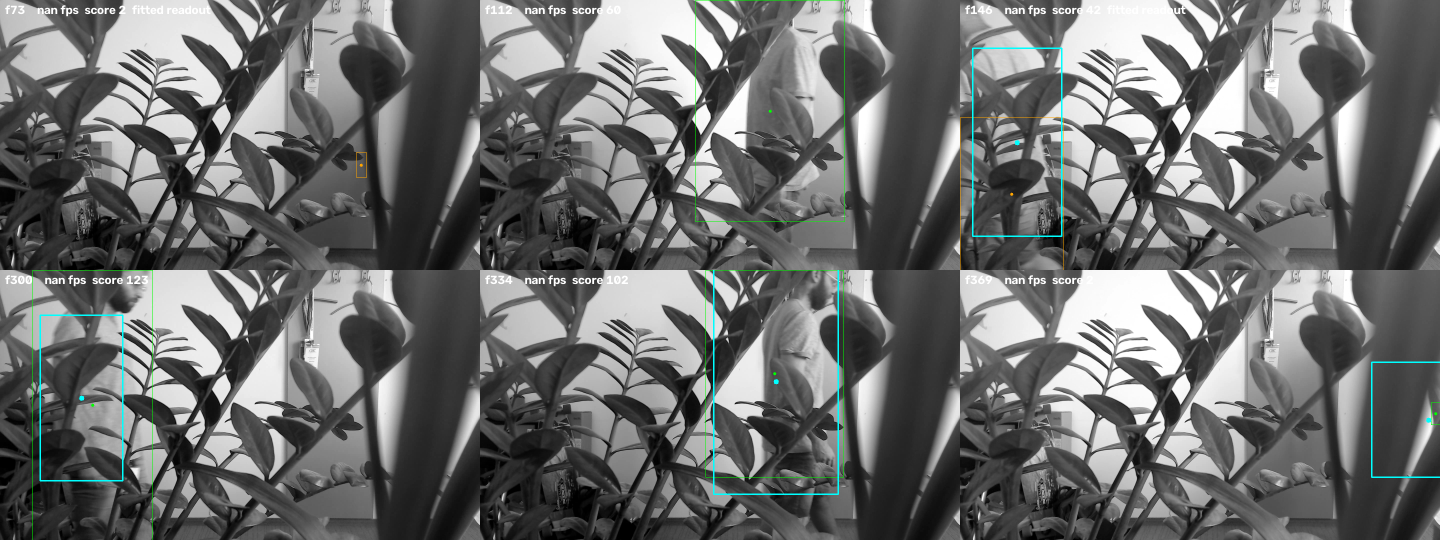
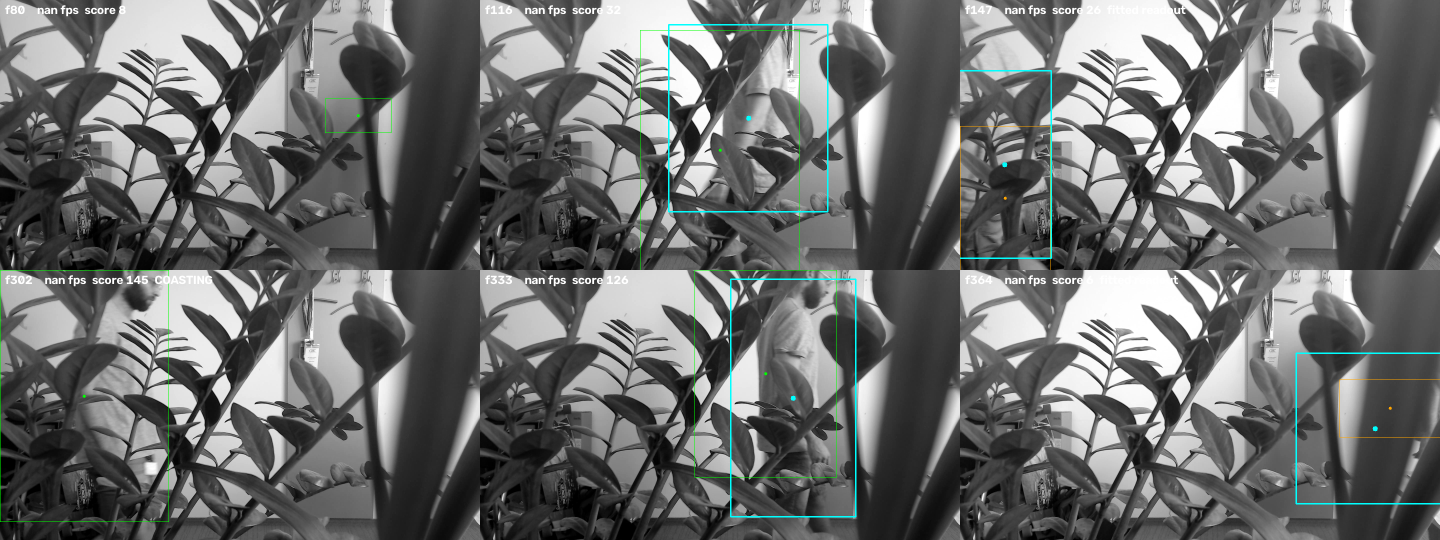
YOLO vs tracker split screen: the detector finds nobody, and its 44% is a static phantom
tracking/eval/yolo_vs_tracker.py renders YOLO and the tracker side by side on the same frame at
the same scale, and scores both against hand-labelled presence intervals. Weights come from what
is already on the machine - YOLO-26-CAM/models/yolo11n.pt via ultralytics 8.4.89 on CUDA - so no
download.

Run despite the repo's own "do not retry" note, deliberately: the three prior derivations were all
195px-or-smaller people in outdoor foliage, and these clips are an 840px well-lit indoor person at
full resolution, which is the regime where a COCO detector should be comfortable. Untested rather
than settled.

  clip          segment          frames   YOLO fires   tracker box
  walk_noisy1   person present      232         44%          90%
  walk_noisy1   person ABSENT       233         85%           1%
  ido_walk      person present      256          5%          74%
  ido_walk      person ABSENT       108          0%           3%
  walk_noisy2   person present      195          0%          79%
  walk_noisy2   person ABSENT       178          0%           2%

On walk_noisy1 YOLO is ANTI-CORRELATED with truth, firing more often when nobody is there. The
mechanism matters, because 44% recall would otherwise read as partial success: EVERY detection is
the same static false positive. Detection centre on person-absent frames is x=158, y=357 with
standard deviation 0.0, and the median centre moves 0px between present and absent while the person
[…]

diff --git a/tracking/eval/yolo_vs_tracker.py b/tracking/eval/yolo_vs_tracker.py
@@ -1,0 +1,142 @@
+"""Split screen: a COCO-trained YOLO person detector against the blob/Kalman tracker.
+
+    python -m tracking.eval.yolo_vs_tracker --clip walk_noisy1
+    python -m tracking.eval.yolo_vs_tracker --clip ido_walk --weights /path/to/yolo11n.pt
+
+Left panel is YOLO, right panel is the tracker, same frame and same scale, so the only difference
+is the method. Writes <clip>_yolo_vs_tracker.mp4 plus a montage, and prints recall and
+false-positive rate for BOTH methods against hand-labelled presence intervals.
+
+WHY THIS IS WORTH RUNNING AT ALL, given the repo already says not to. Three prior derivations
+found COCO detectors returning 0.000 confidence on this project's footage - the deleted
+gen_data/score_frames_yolo.py on NFO with yolov8n, then torchvision Faster R-CNN and YOLOv8n on
+NFO, KTH and every crop variant. But all of those were 195px-or-smaller people in outdoor foliage.
+These clips are a different regime: an 840px well-lit indoor person at full resolution, which is
+the one case where a COCO detector should be comfortable. So it was untested rather than settled.
+
+WEIGHTS come from whatever is already on the machine - no download. yolo11n.pt lives in the
+sibling YOLO-26-CAM project.
+
+READ recall AND false positives together. A detector that fires on most frames looks good on
+recall alone; the interesting question on this footage is whether it fires on the PERSON.
+"""
+import argparse
+import os
+
+import cv2
+import numpy as np
+
+from tracking.stream.stream import (Smoother, StreamPipeline, annotate, bootstrap_person_height,
+                                    frames_from_source)
+
+DEFAULT_WEIGHTS = '/home/akovi/PycharmProjects/YOLO-26-CAM/models/yolo11n.pt'
+PRESENT = {
+    'ido_walk':        [(31, 194), (278, 391)],
+    'ido_walk_frozen': [],
+    'walk_noisy1':     [(65, 195), (353, 453)],
+    'walk_noisy2':     [(70, 160), (270, 373)],
+}
+
+
+def yolo_boxes(model, grey, conf):
+    """Person boxes as [((x1,y1,x2,y2), conf), ...]. The greyscale frame is replicated to 3
+    channels because that is what a COCO-trained network expects, and a previous investigation
+    confirmed greyscaling is not itself the cause of failure - the same models still find 4 people
+    at 0.87-0.999 in a greyscaled stock photo."""
+    r = model.predict(np.repeat(grey[:, :, None], 3, axis=2), classes=[0], conf=conf,
+                      verbose=False)[0]
+    if r.boxes is None or len(r.boxes) == 0:
+        return []
+    xy = r.boxes.xyxy.cpu().numpy()
+    cf = r.boxes.conf.cpu().numpy()
+    return [((int(a), int(b), int(c), int(d)), float(s)) for (a, b, c, d), s in zip(xy, cf)]
+
+
+def panel(grey, title, boxes=None, result=None, fired=None):
+    vis = cv2.cvtColor(grey, cv2.COLOR_GRAY2BGR) if result is None else annotate(result, float('nan'))
+    for (x1, y1, x2, y2), s in (boxes or []):
+        cv2.rectangle(vis, (x1, y1), (x2, y2), (255, 0, 255), 2)
+        cv2.putText(vis, f'{s:.2f}', (x1, max(14, y1 - 6)), cv2.FONT_HERSHEY_SIMPLEX, 0.6,
+                    (255, 0, 255), 2)
+    cv2.rectangle(vis, (0, 0), (vis.shape[1] - 1, 34), (0, 0, 0), -1)
+    cv2.putText(vis, title + ('' if fired is None else f'   {fired}'), (8, 24),
+                cv2.FONT_HERSHEY_SIMPLEX, 0.7, (255, 255, 255), 2)
+    return vis
+
+
+def main():
+    p = argparse.ArgumentParser(description=__doc__,
+                                formatter_class=argparse.RawDescriptionHelpFormatter)
+    p.add_argument('--clip', default='walk_noisy1')
+    p.add_argument('--weights', default=DEFAULT_WEIGHTS)
+    p.add_argument('--scale', type=float, default=0.5)
+    p.add_argument('--conf', type=float, default=0.25, help="ultralytics' own default")
+    p.add_argument('--min-score', type=float, default=5.0, help='tracker presence gate')
+    p.add_argument('--src-fps', type=float, default=24.0)
+    p.add_argument('--out-dir', default='images/stream')
+    a = p.parse_args()
+    assert os.path.exists(a.weights), f'no weights at {a.weights}'
+
+    os.environ.setdefault('YOLO_VERBOSE', 'False')
+    from ultralytics import YOLO
+    model = YOLO(a.weights)
+
+    frames = list(frames_from_source(f'data/{a.clip}.mkv', a.scale))
+    h = bootstrap_person_height(np.stack(frames[:240]))
+    pipe = StreamPipeline(h, min_score=a.min_score)
+    sm = Smoother(h, a.src_fps)
+    present = PRESENT.get(a.clip, [])
+    inp = lambda i: any(lo <= i <= hi for lo, hi in present)
+
+    writer, rows, tally = None, [], {}
+    for f in frames:
+        r = pipe.step(f)
+        if r is None:
+            continue
+        wh = None if r.box is None else (r.box[2] - r.box[0], r.box[3] - r.box[1])
+        r.smooth = sm.update(None if r.x is None else (r.x, r.y), wh)
+        det = yolo_boxes(model, r.frame, a.conf)
+        left = panel(r.frame, f'YOLO {os.path.basename(a.weights)} conf>={a.conf:g}',
+                     boxes=det, fired=f'{len(det)} person' if det else 'nothing')
+        right = panel(r.frame, f'blob + Kalman tracker  min-score {a.min_score:g}', result=r,
+                      fired='box' if r.box is not None else 'nothing')
+        vis = np.hstack([left, right])
+        if writer is None:
+            hh, ww = vis.shape[:2]
+            writer = cv2.VideoWriter(f'{a.out_dir}/{a.clip}_yolo_vs_tracker.mp4',
+                                     cv2.VideoWriter_fourcc(*'mp4v'), a.src_fps, (ww, hh))
+        writer.write(vis)
+        if present:
+            k = 'PRESENT' if inp(r.frame_index) else 'absent'
+            t = tally.setdefault(k, [0, 0, 0])
+            t[0] += 1
+            t[1] += bool(det)
+            t[2] += r.box is not None
+        rows.append((r.frame_index, vis, bool(det), r.box is not None))
+    if writer is not None:
+        writer.release()
+
+    picks = [rows[i] for i in np.linspace(0, len(rows) - 1, 4).astype(int)]
+    w = 900
+    tiles = [cv2.resize(v, (w, int(w * v.shape[0] / v.shape[1]))) for _, v, _, _ in picks]
+    out_png = f'{a.out_dir}/{a.clip}_yolo_vs_tracker.png'
+    cv2.imwrite(out_png, np.vstack(tiles))
+
+    print(f'{a.clip}: person height {h:.0f}px, {len(rows)} emitted frames')
+    if tally:
+        print(f"{'segment':>9}{'frames':>8}{'YOLO fires':>12}{'tracker box':>13}")
+        for k in ('PRESENT', 'absent'):
+            if k in tally:
+                n, y, t = tally[k]
+                print(f'{k:>9}{n:>8}{100 * y / n:>11.0f}%{100 * t / n:>12.0f}%')
+        if 'PRESENT' in tally and 'absent' in tally:
+            np_, yp, tp = tally['PRESENT']
+            na, ya, ta = tally['absent']
+            print(f'\n  YOLO    recall {100*yp/np_:.0f}%  false-positive {100*ya/na:.0f}%'
+                  f'   -> {"ANTI-CORRELATED with truth" if ya/na > yp/np_ else "correlated"}')
+            print(f'  tracker recall {100*tp/np_:.0f}%  false-positive {100*ta/na:.0f}%')
+    print(f'wrote {a.out_dir}/{a.clip}_yolo_vs_tracker.mp4 and {out_png}')
+
+
+if __name__ == '__main__':
+    main()

diff --git a/docs/streaming_minimal_start.md b/docs/streaming_minimal_start.md
@@ -1,5 +1,38 @@
 # Minimal starting point: streaming tracker on a fake stream, with detection overlay
 
+> **2026-09-01, FOURTH derivation, and the first on large well-lit indoor people: a COCO-trained
+> detector still finds nobody.** The three prior runs were all 195px-or-smaller people in outdoor
+> foliage, so the new indoor clips were untested rather than settled - an 840px well-lit person at
+> full resolution is the one regime where a COCO detector should be comfortable. YOLOv11n
+> (`YOLO-26-CAM/models/yolo11n.pt`, ultralytics 8.4.89, CUDA), person class, conf >= 0.25, scored
+> against hand-labelled presence intervals:
+>
+> | clip | segment | frames | YOLO fires | tracker box |
+> |---|---|---|---|---|
+> | walk_noisy1 | person present | 232 | 44% | **90%** |
+> | walk_noisy1 | person ABSENT | 233 | **85%** | **1%** |
+> | ido_walk | person present | 256 | 5% | 74% |
+> | ido_walk | person ABSENT | 108 | 0% | 3% |
+> | walk_noisy2 | person present | 195 | **0%** | 79% |
+> | walk_noisy2 | person ABSENT | 178 | 0% | 2% |
+>
+> On walk_noisy1 YOLO is ANTI-CORRELATED with truth - it fires more often when nobody is there.
+> The reason is worth knowing, because "44% recall" would otherwise look like partial success:
+> **every detection is the same static false positive.** Detection centre on person-absent frames
+> is x=158, y=357 with standard deviation **0.0**, and the median centre moves **0px** between
+> present and absent while the person traverses ~900px. It is a tall narrow object on a shelf,
+> visible in images/stream/walk_noisy1_yolo_vs_tracker.png. So the real person-detection rate is
+> zero on all three clips, and the 44% is a phantom that happens to fire during the person's
+> passes too.
+>
+> Scale does not rescue it: at full resolution walk_noisy1 drops to 19% present / 42% absent, worse
+> on both. Greyscale is not the cause either - that was ruled out previously, the same models
+> finding 4 people at 0.87-0.999 in a greyscaled stock photo.
+>
+> So the classical tracker beats a modern COCO detector on this footage by 90% vs 0% real recall at
+> 1% vs 85% false positives, and this is now the strongest single piece of evidence for why the
+> project exists. Reproduce with `python -m tracking.eval.yolo_vs_tracker --clip walk_noisy1`.
+
 > **2026-08-31, second finding: A FIRING RATE IS NOT A DETECTION RATE. The "HOG fires on
 > 30.0% of centre-frame crops" figure below is not evidence that HOG detects the person - it
 > was never checked for WHERE it fired.** Re-measured on data/ido_walk.mkv (person 421px at
